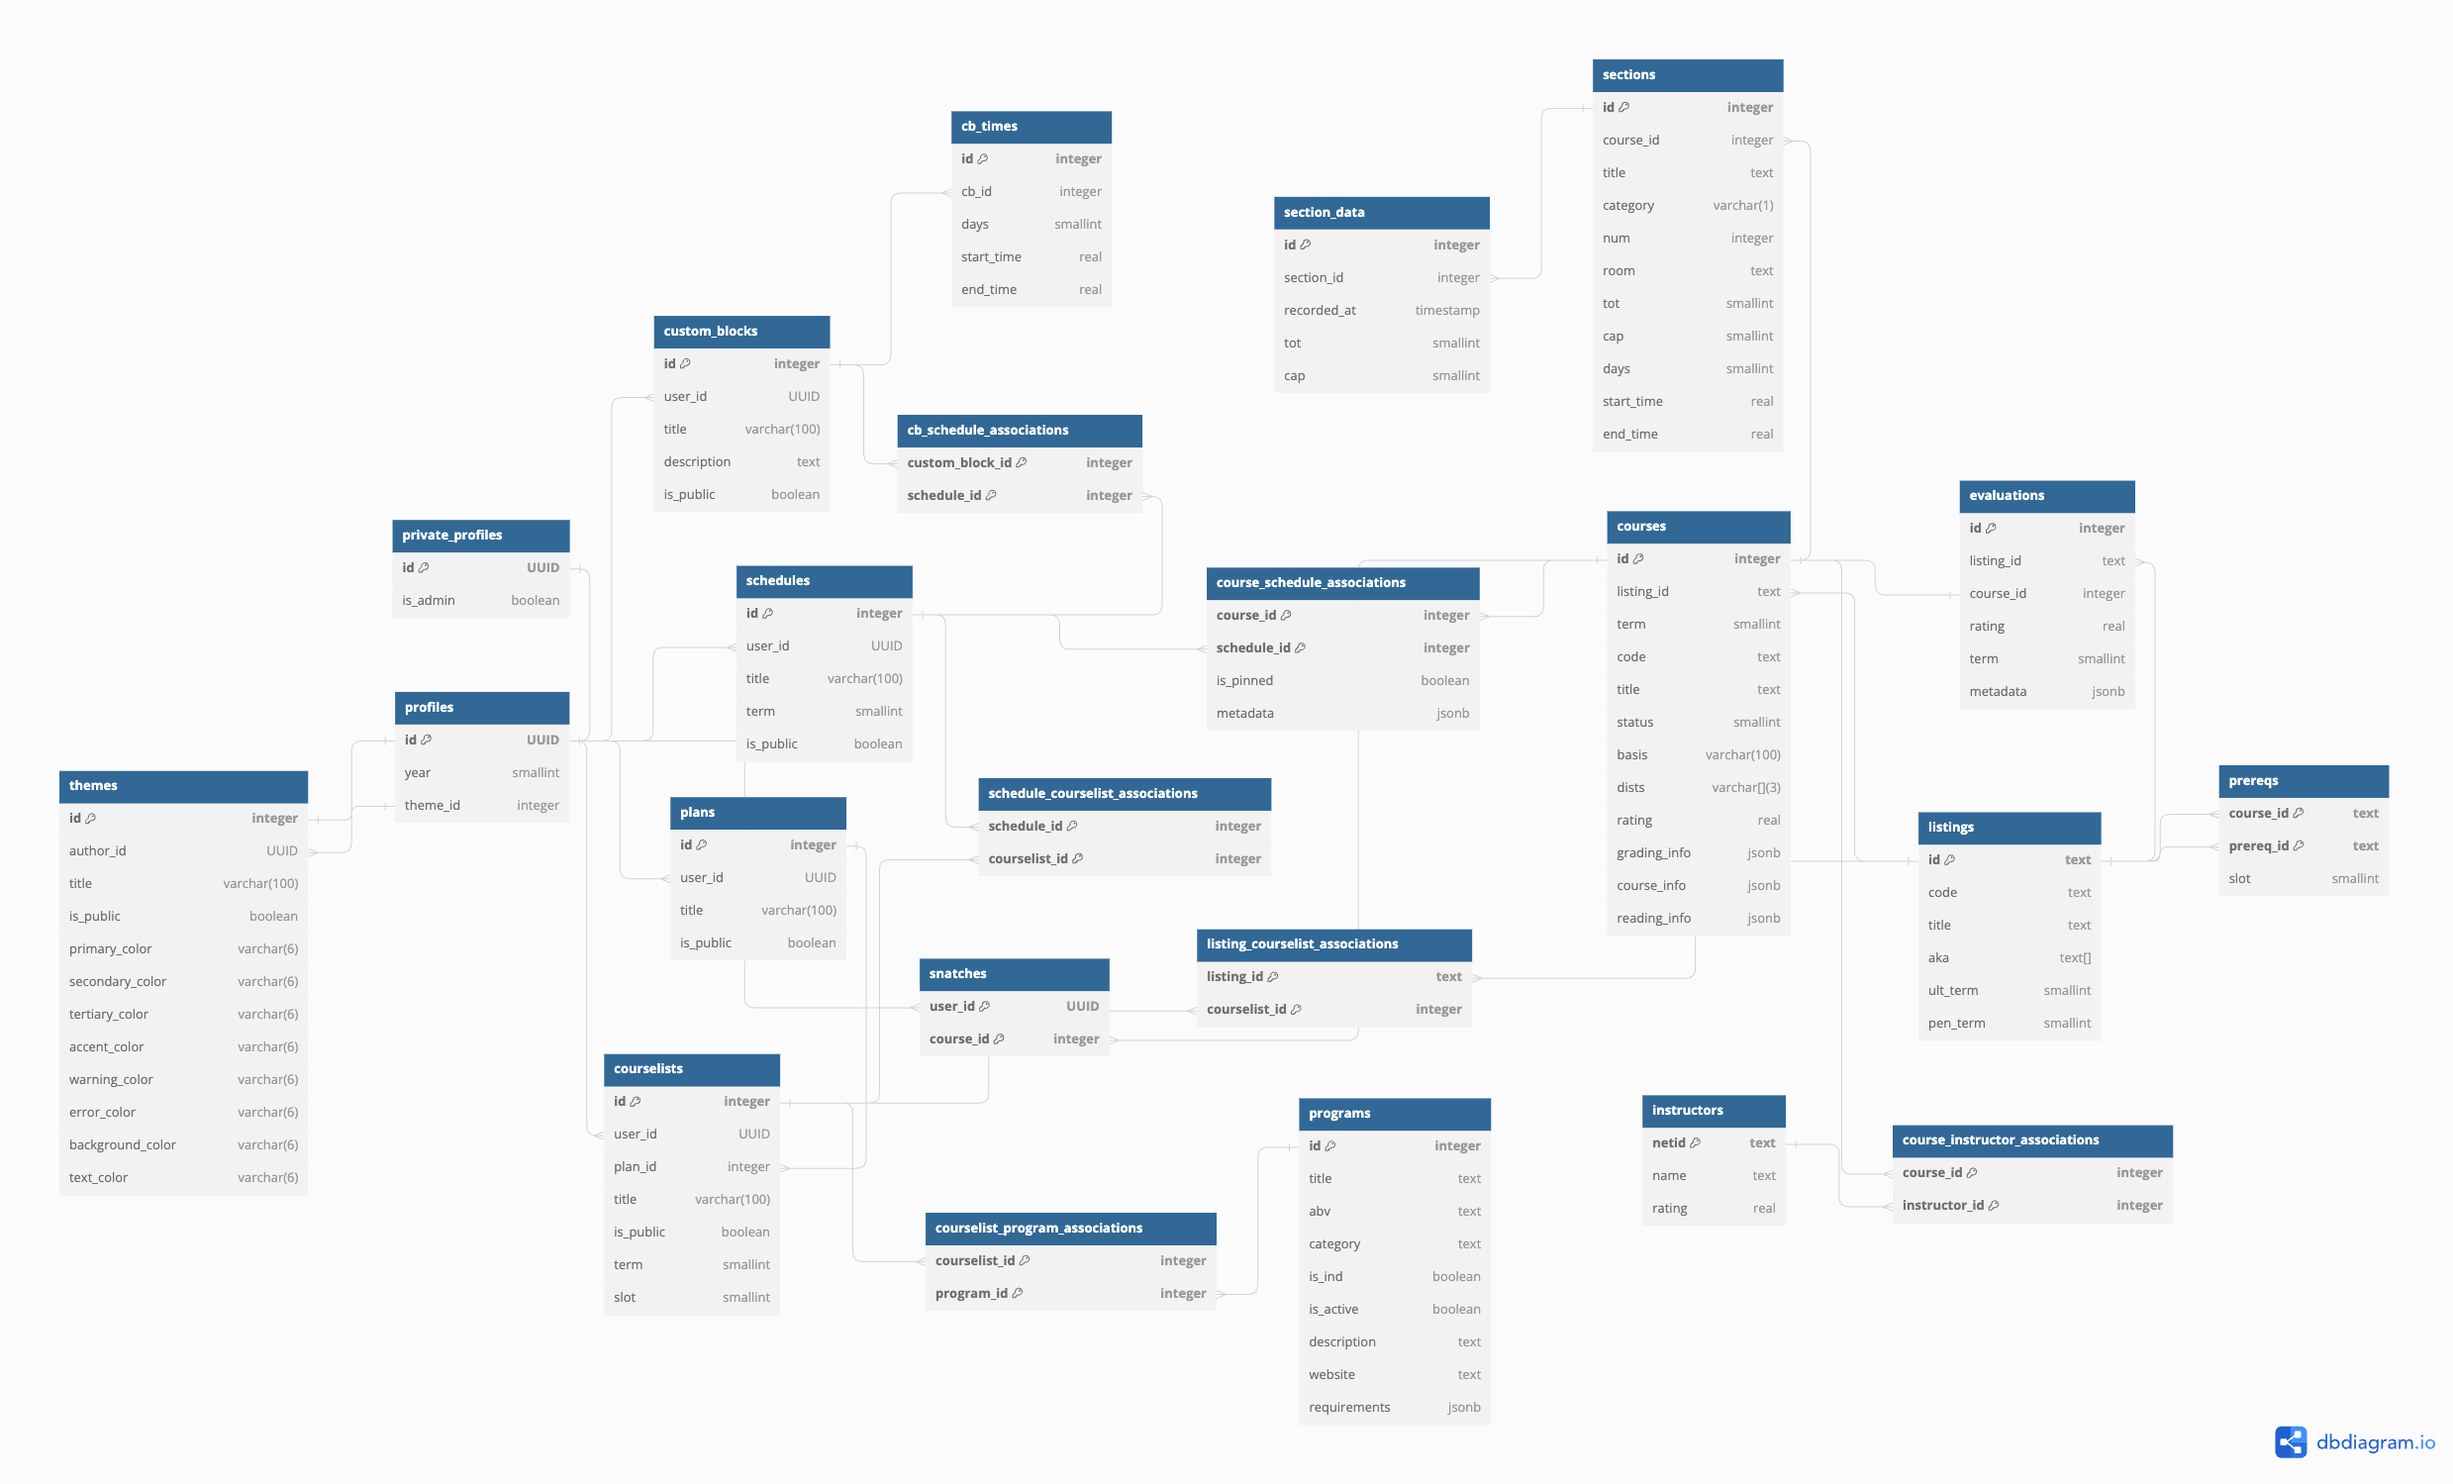
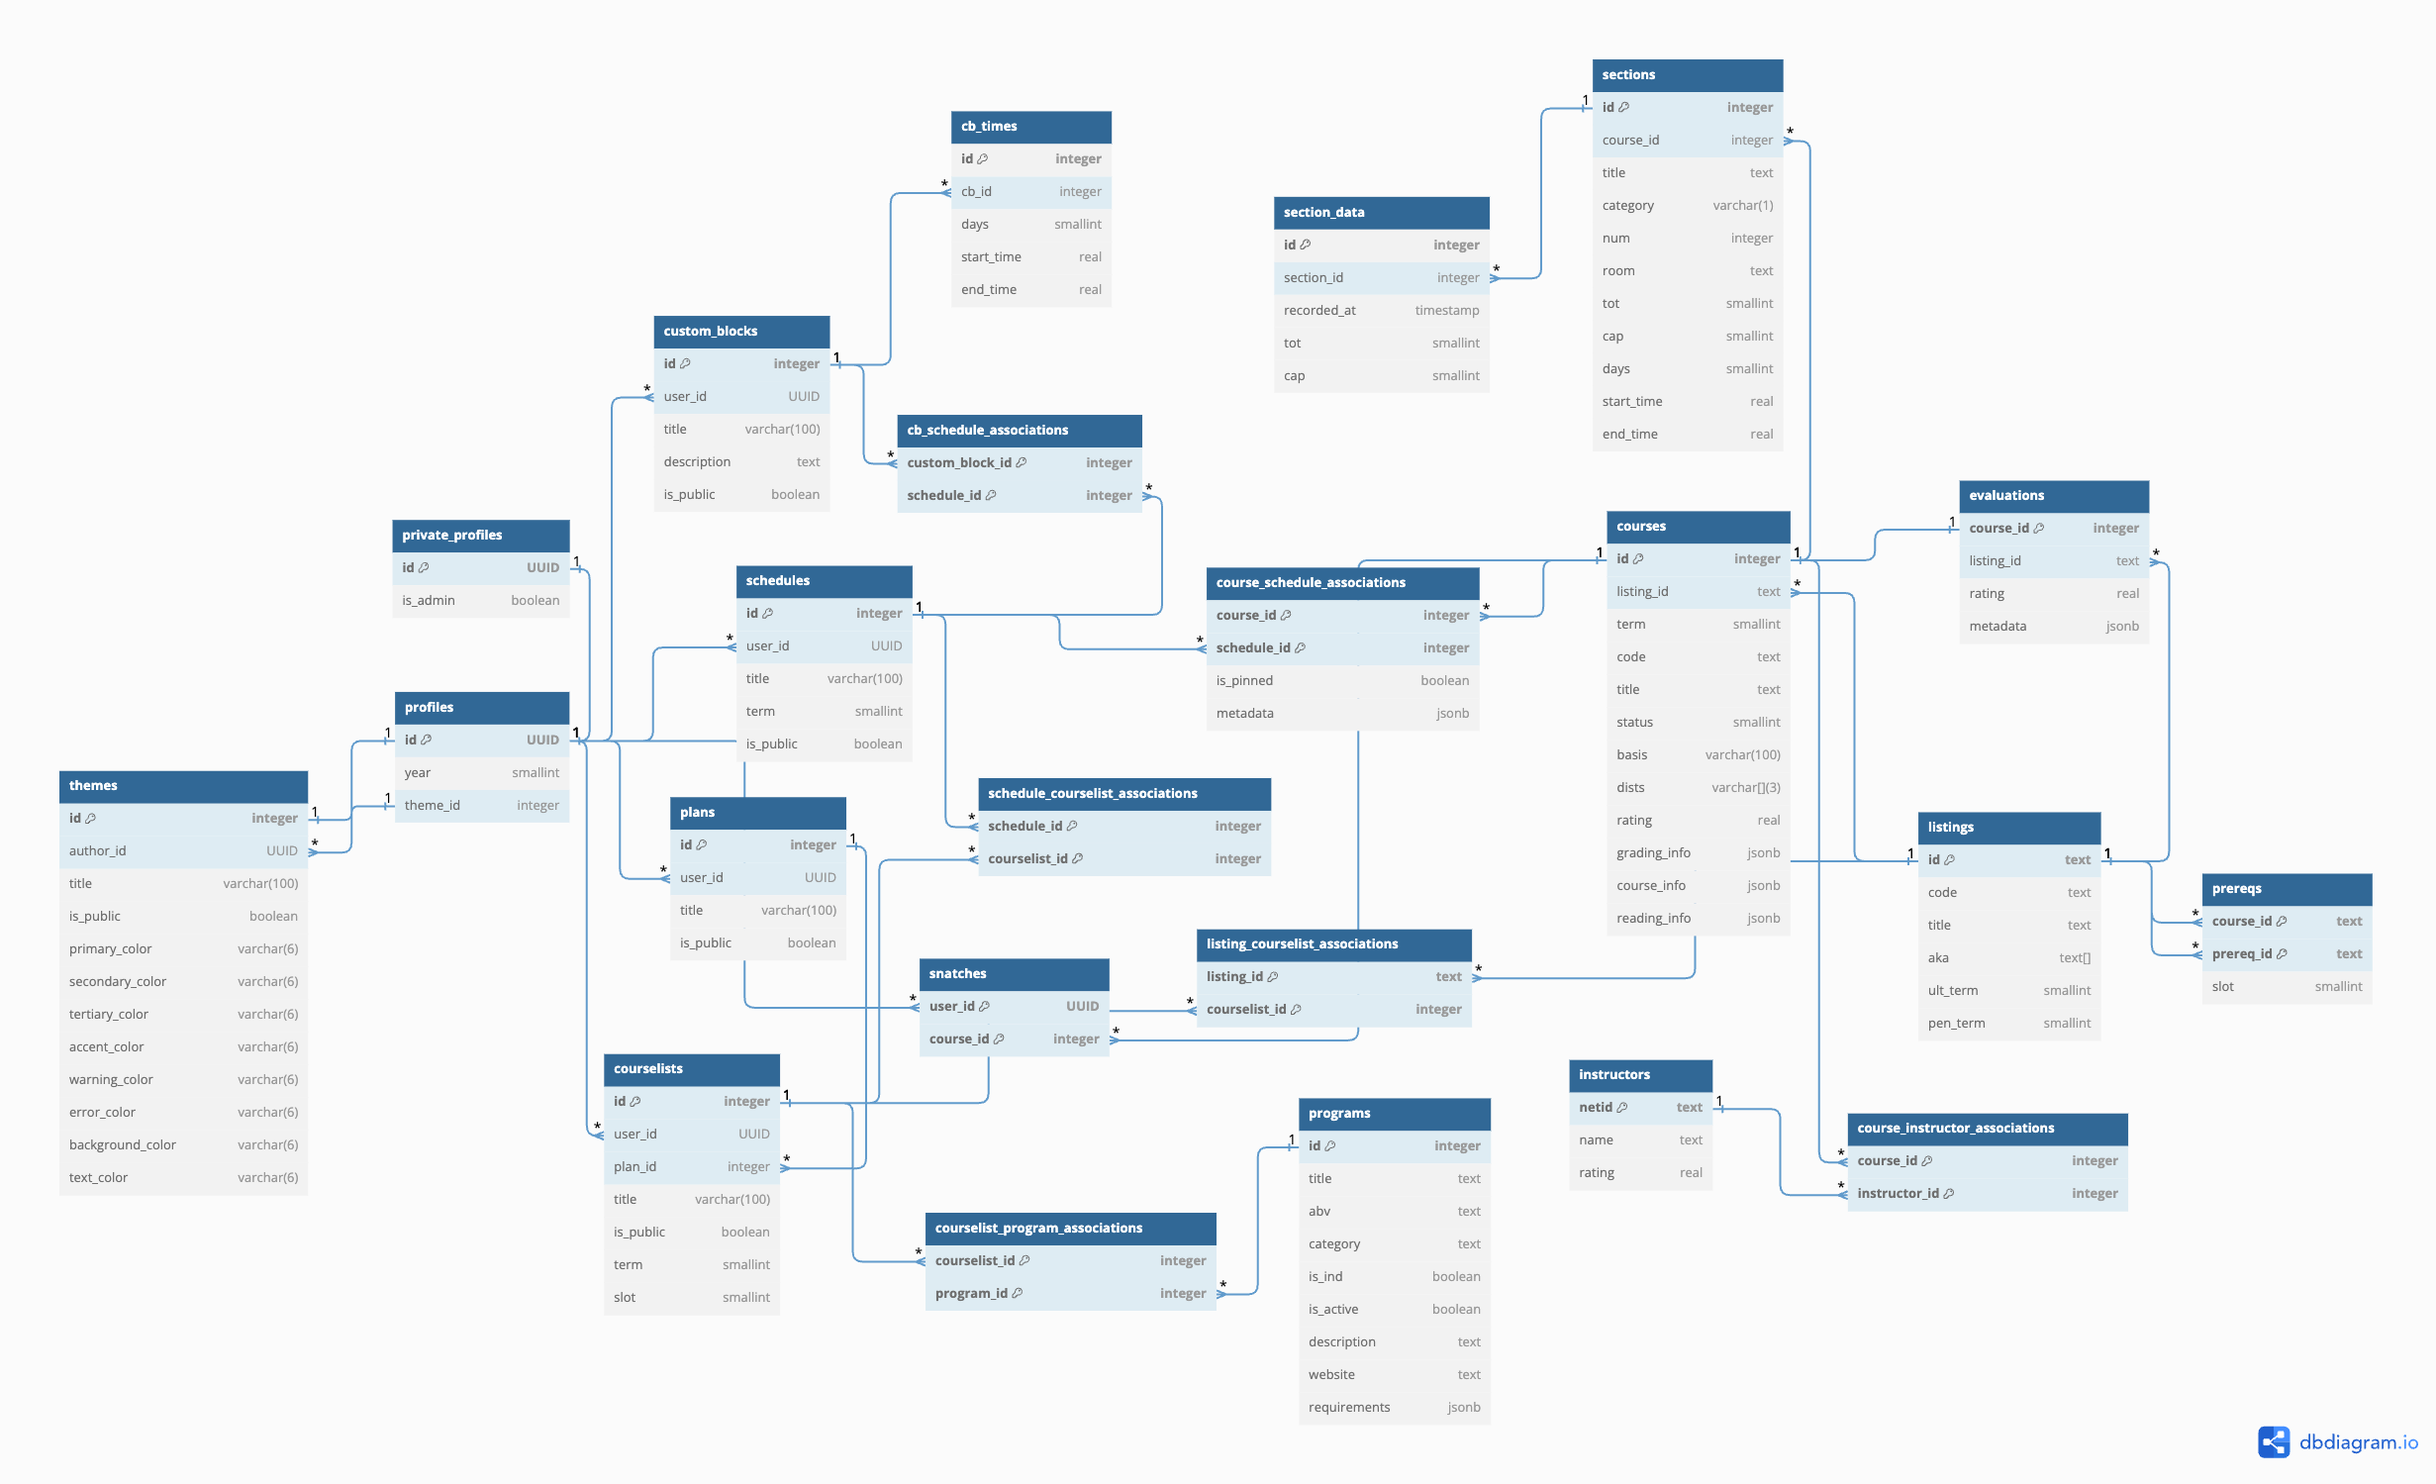
Implement evaluations scraper

diff --git a/src/lib/scripts/scraper/evaluations.ts b/src/lib/scripts/scraper/evaluations.ts
@@ -1,0 +1,146 @@
+import { PRIVATE_COOKIE } from "$env/static/private";
+import { EVALS_TERM_MAP, EVALUATION_URL } from "$lib/constants";
+import type { SupabaseClient } from "@supabase/supabase-js";
+import { JSDOM } from "jsdom";
+
+const PARALLEL_REQUESTS = 10; // Number of parallel requests to send
+const RATE = 0; // Number of milliseconds between requests
+
+/**
+ * Pushes all evaluations for a given term to the database
+ * @param supabase 
+ * @param term 
+ * @returns success message
+ */ 
+const populateEvaluations = async (supabase: SupabaseClient, term: number) => {
+    // Fetch all courses for the given term from the database
+    let { data, error } = await supabase.from("courses")
+        .select("listing_id, id")
+        .eq("term", term);
+
+    if (error) {
+        console.log("Error fetching courses from database");
+        throw new Error(error.message);
+    }
+
+    if (data === null) {
+        console.log("No courses found in database");
+        throw new Error("No courses found in database");
+    }
+
+    type DualId = {
+        listing_id: string,
+        id: number
+    }
+
+    let ids: DualId[] = data.map(x => { return {
+        listing_id: x.listing_id,
+        id: x.id
+    }})
+
+    // Limit the number of evaluations fetched
+    // ids = ids.slice(0, 10);
+
+    let none = 0;
+    let found = 0;
+
+    // For each course, fetch the evaluation from the API, if it exists
+    const processNextEvaluation = async (index: number) => {
+        if (index >= ids.length) return; // Base case
+
+        // Fetch the evaluation
+        const res = await fetch(
+            `${EVALUATION_URL}courseinfo=${ids[index].listing_id}&terminfo=${term}`, {
+                method: "GET",
+                headers: {
+                    "Cookie": PRIVATE_COOKIE
+                }
+            }
+        );
+
+        const nextRequest = async () => {
+            // Wait RATE milliseconds before sending the next request
+            await new Promise(resolve => setTimeout(resolve, RATE));
+
+            console.log(`Finished request ${index + 1} of ${ids.length}`)
+
+            // Recurse
+            await processNextEvaluation(index + PARALLEL_REQUESTS);
+        }
+
+        // Parse the evaluation
+        const dom = new JSDOM(await res.text());
+
+        if (dom.window.document.querySelectorAll("tr").length === 0) {
+            none++;
+            await nextRequest();
+            return;
+        };
+
+        // Check for redirection (i.e. no evaluation found)
+        if (dom.window.document.querySelector("h3")?.textContent !== EVALS_TERM_MAP[term]) {
+            none++;
+            await nextRequest();
+            return;
+        }
+
+        found++;
+
+        const evalLabels = dom.window.document.querySelectorAll("tr")[0].querySelectorAll("th");
+        const evalRatings = dom.window.document.querySelectorAll("tr")[1].querySelectorAll("td");
+        const comments = dom.window.document.querySelectorAll(".comment");
+
+        let returnDict: Record<string, any> = {};
+        for (let i = 0; i < evalLabels.length; i++) {
+            returnDict[evalLabels[i].textContent as string] = evalRatings[i].textContent;
+            returnDict["comments"] = [...comments].map(x => x.textContent);
+        }
+
+        // Find the highest priority category that has a rating
+        const findRating = () => {
+            // Categories in order of priority
+            const categories = [
+                "Quality of Course",
+                "Overall Quality of the Course",
+            ];
+
+            for (let i = 0; i < categories.length; i++) 
+                if (returnDict.hasOwnProperty(categories[i]))
+                    return returnDict[categories[i]];
+            
+            return -1;
+        }
+
+        let { error: err1 } = await supabase.from("evaluations")
+        .upsert({
+            course_id: ids[index].id,
+            listing_id: ids[index].listing_id,
+            rating: findRating(),
+            metadata: returnDict
+        })
+
+        if (err1) {
+            console.log("Line PNE1")
+            console.log(`Error pushing evaluation for course ${ids[index].listing_id}`);
+            throw new Error(err1.message);
+        }
+
+        await nextRequest();
+    }
+
+    // Send PARALLEL_REQUESTS requests in parallel
+    let promises: Promise<void>[] = [];
+    for (let i = 0; i < PARALLEL_REQUESTS; i++) {
+        promises.push(processNextEvaluation(i));
+    }
+
+    // Wait for all requests to finish 
+    await Promise.all(promises);
+    
+    // Return success message
+    const msg = `Found ${found} evaluations for term ${term} (${none} not found)`;
+    console.log(msg);
+    return msg;
+}
+
+export { populateEvaluations }

diff --git a/src/routes/admin/+page.server.ts b/src/routes/admin/+page.server.ts
@@ -2,6 +2,7 @@ import { redirect, type Actions } from "@sveltejs/kit";
 import { getCourseData } from "$lib/scripts/scraper/reg.js";
 import { populateListings } from "$lib/scripts/scraper/listings.js";
 import { populateCourses } from "$lib/scripts/scraper/courses.js";
+import { populateEvaluations } from "$lib/scripts/scraper/evaluations";
 
 // Only allow admins to access this page
 export const load = async ({ locals }) => {
@@ -44,6 +45,8 @@ export const actions: Actions = {
     },
     pushEvaluations: async ({ request, locals }) => {
         const termId = await parseTermId(request);
+        let message = await populateEvaluations(locals.supabase, termId);
+        return message;
     },
     pushRatings: async ({ request, locals }) => {
         const termId = await parseTermId(request);
@@ -93,7 +96,7 @@ export const actions: Actions = {
         let { error } = await locals.supabase
             .from("evaluations")
             .delete()
-            .neq("id", "0");
+            .neq("course_id", "0");
         
         if (error) throw new Error(error.message);
         return {    
@@ -120,6 +123,17 @@ export const actions: Actions = {
         if (error) throw new Error(error.message);
         return {
             message: "Successfully deleted all prereqs"
+        };
+    },
+    deleteAllSectionData: async ({ locals }) => {
+        let { error } = await locals.supabase
+            .from("section_data")
+            .delete()
+            .neq("id", "0");
+        
+        if (error) throw new Error(error.message);
+        return {
+            message: "Successfully deleted all section data"
         };
     },
     // ! Tests

diff --git a/src/lib/constants.ts b/src/lib/constants.ts
@@ -24,6 +24,20 @@ const TERM_MAP: Record<string, number> = {
     "FALL_2018": 1192,
 }
 
+const EVALS_TERM_MAP: Record<number, string> = {
+    1242: "2023-2024 Fall Course Evaluation Results",
+    1234: "2022-2023 Spring Course Evaluation Results",
+    1232: "2022-2023 Fall Course Evaluation Results",
+    1224: "2021-2022 Spring Course Evaluation Results",
+    1222: "2021-2022 Fall Course Evaluation Results",
+    1214: "2020-2021 Spring Course Evaluation Results",
+    1212: "2020-2021 Fall Course Evaluation Results",
+    1204: "2019-2020 Spring Course Evaluation Results",
+    1202: "2019-2020 Fall Course Evaluation Results",
+    1194: "2018-2019 Spring Course Evaluation Results",
+    1192: "2018-2019 Fall Course Evaluation Results",
+}
+
 const CURRENT_TERM_NAME = "FALL_2023";
 const CURRENT_TERM_ID = 1242;
 
@@ -63,6 +77,7 @@ export {
     COURSE_URL,
     EVALUATION_URL,
     TERM_MAP,
+    EVALS_TERM_MAP,
     CURRENT_TERM_NAME,
     CURRENT_TERM_ID,
     GENERIC_GRADING_INFO,

diff --git a/src/routes/admin/+page.svelte b/src/routes/admin/+page.svelte
@@ -79,6 +79,7 @@ const handleLogout = async () => {
                 if (!Object.values(TERM_MAP).includes(parseInt(term))) {
                     alert("Invalid term code!");
                     cancel();
+                    term = "";
                     return;
                 }
 
@@ -191,6 +192,12 @@ const handleLogout = async () => {
                     {enableMassDelete ? "btn-danger" : "btn-protected"}" 
                     disabled={!enableMassDelete}>
                         Delete All Prereqs
+                    </button>
+                    <button formaction="?/deleteAllSectionData"
+                    class="btn
+                    {enableMassDelete ? "btn-danger" : "btn-protected"}" 
+                    disabled={!enableMassDelete}>
+                        Delete All Section Data
                     </button>
                 </form>
                 

diff --git a/src/lib/scripts/scraper/courses.ts b/src/lib/scripts/scraper/courses.ts
@@ -54,7 +54,7 @@ const populateCourses = async (supabase: SupabaseClient, term: number) => {
     // Limit number of courses
     // courselist = courselist.slice(0, 100);
 
-    const processNextCourse = (index: number) => {
+    const processNextCourse = async (index: number) => {
         if (index >= courselist.length) return;
         console.log("Sending request: " + index);
 
@@ -147,7 +147,6 @@ const populateCourses = async (supabase: SupabaseClient, term: number) => {
                             throw new Error(res.error.message);
                         }
                         
-
                         updateCourseDependencies(
                             supabase,
                             res.data[0].id,
